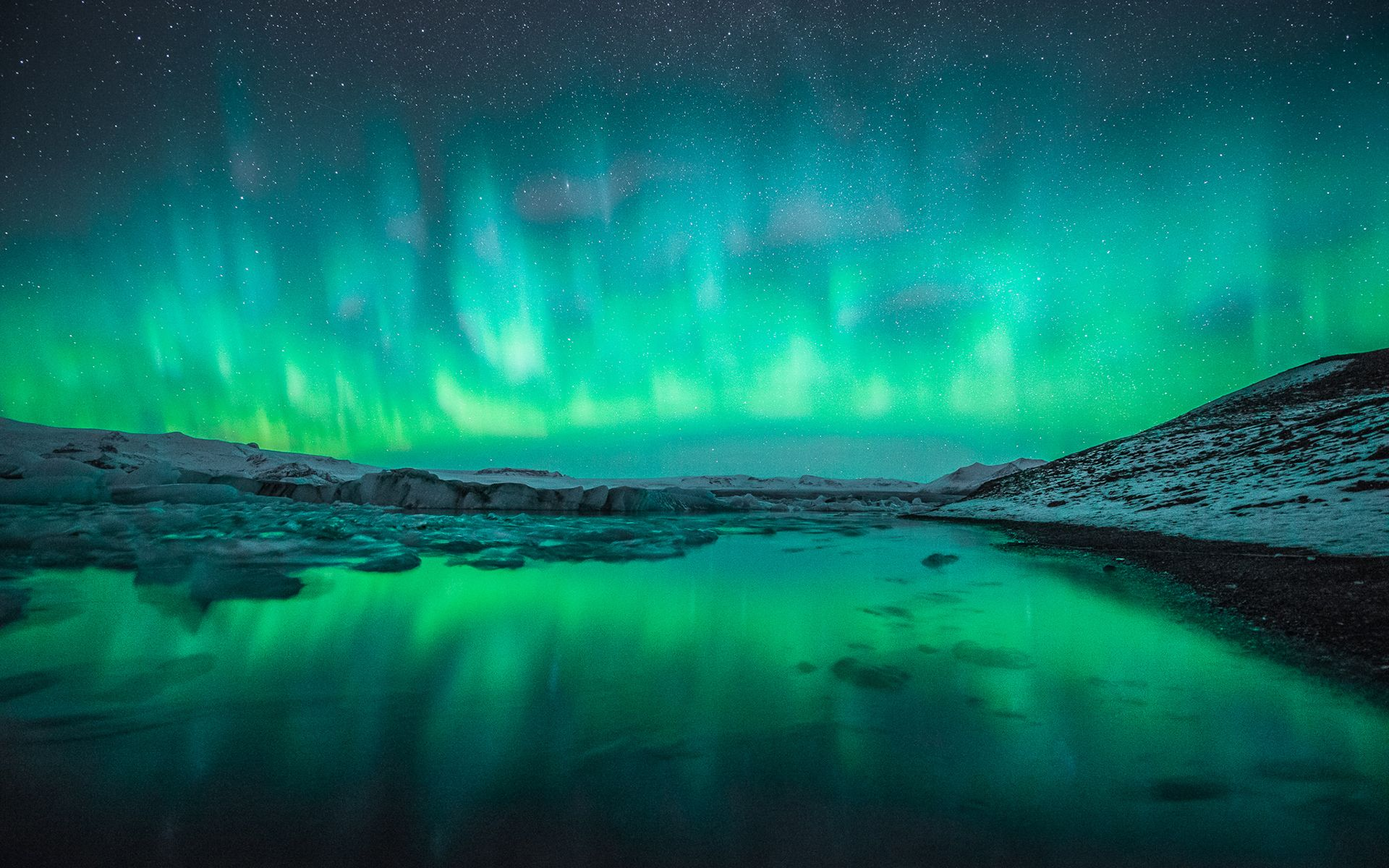
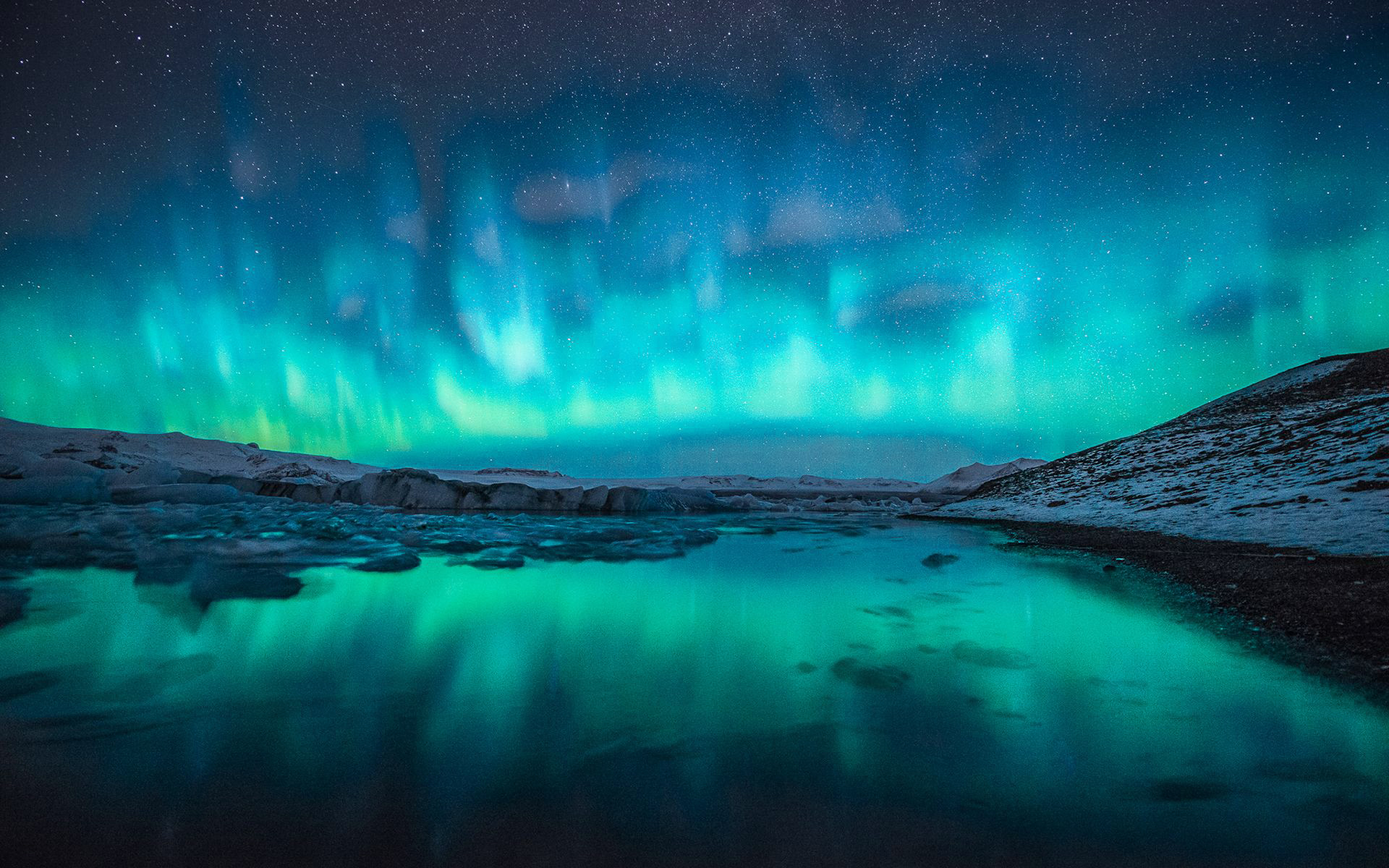
card fixed

diff --git a/assets/css/style.css b/assets/css/style.css
@@ -611,7 +611,7 @@ h6 {
 
 #hero .btn-get-started:hover,
 #blog .btn-get-started:hover {
-  background: #00c5db;
+  background-color: #00c5db;
   border: 2px solid #00c5db;
 }
 
@@ -1907,7 +1907,6 @@ section {
   background: url("../img/blog-bg.jpg") top center;
   background-size: cover;
   position: relative;
-  filter: hue-rotate(30deg);
   background-attachment: fixed;
 }
 
@@ -1919,4 +1918,10 @@ section {
 
 #blog-stuff .card {
   border-radius: 20px;
+  box-shadow: 0px 0px 20px rgba(0, 0, 0, 0.3);
+}
+
+#blog-stuff .card img {
+  border-top-left-radius: 20px;
+  border-top-right-radius: 20px;
 }
